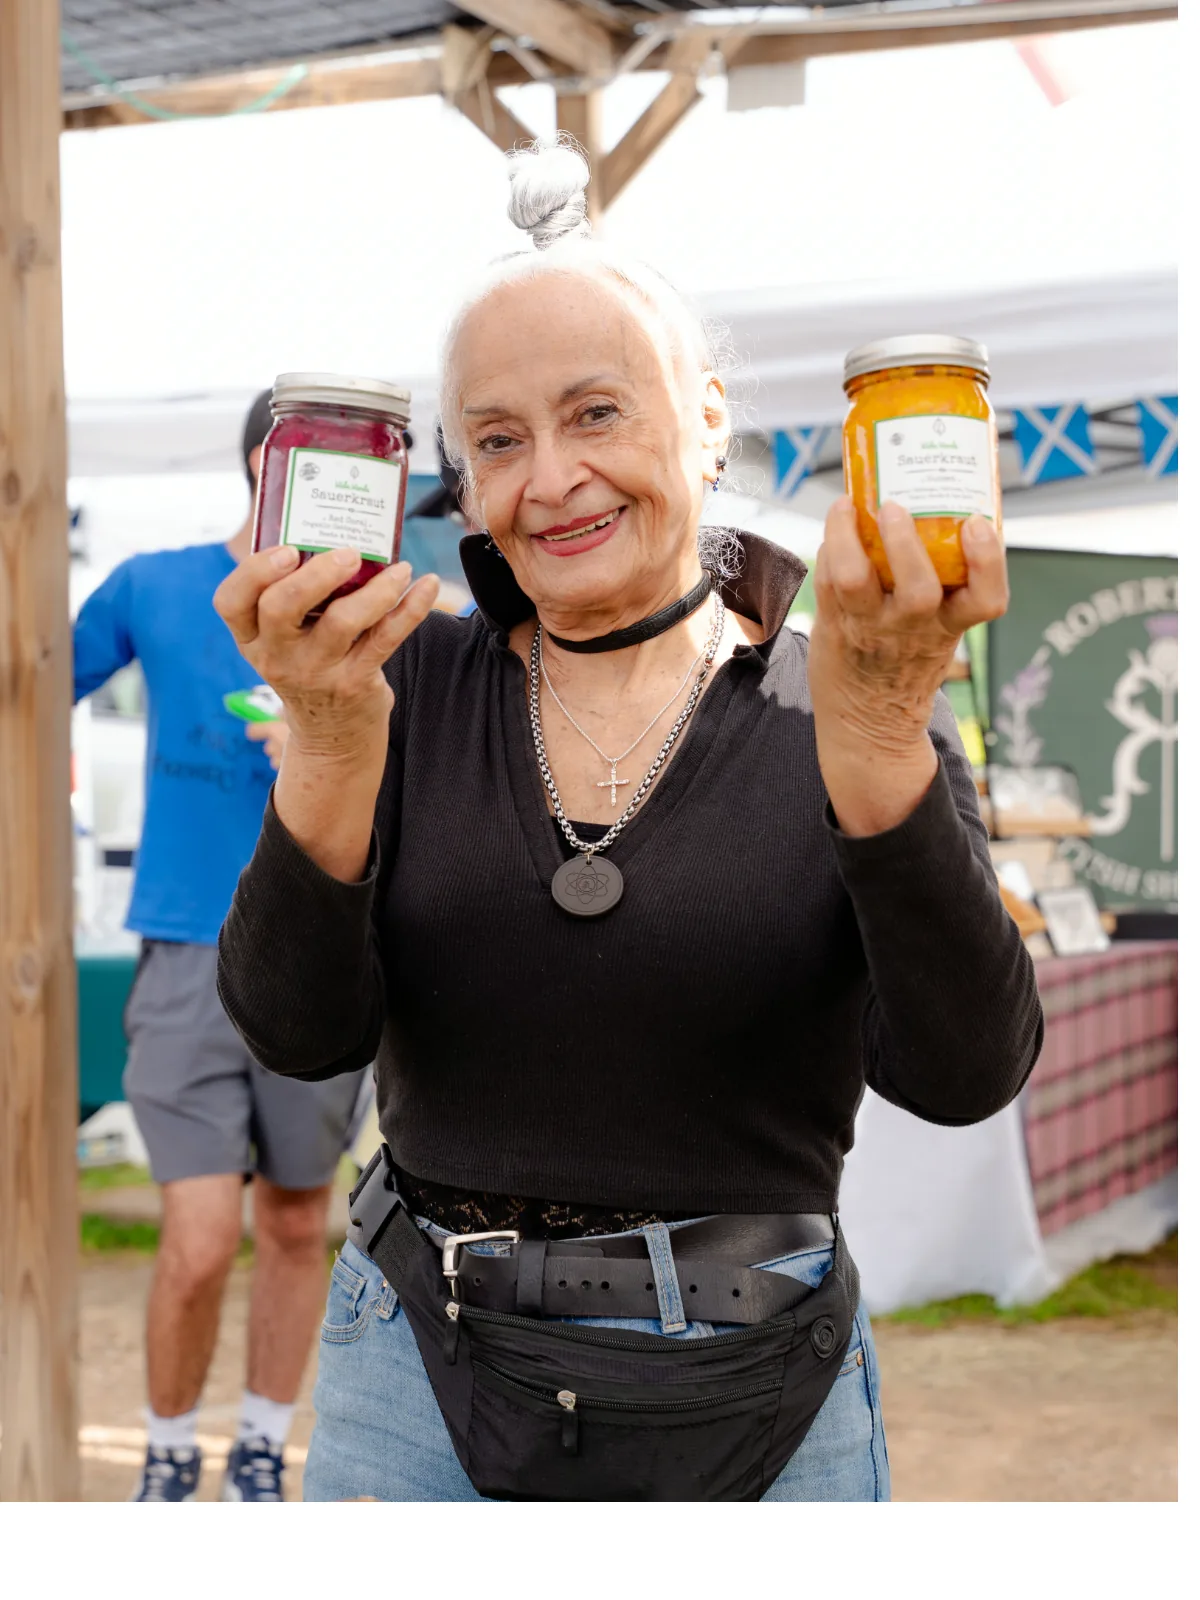
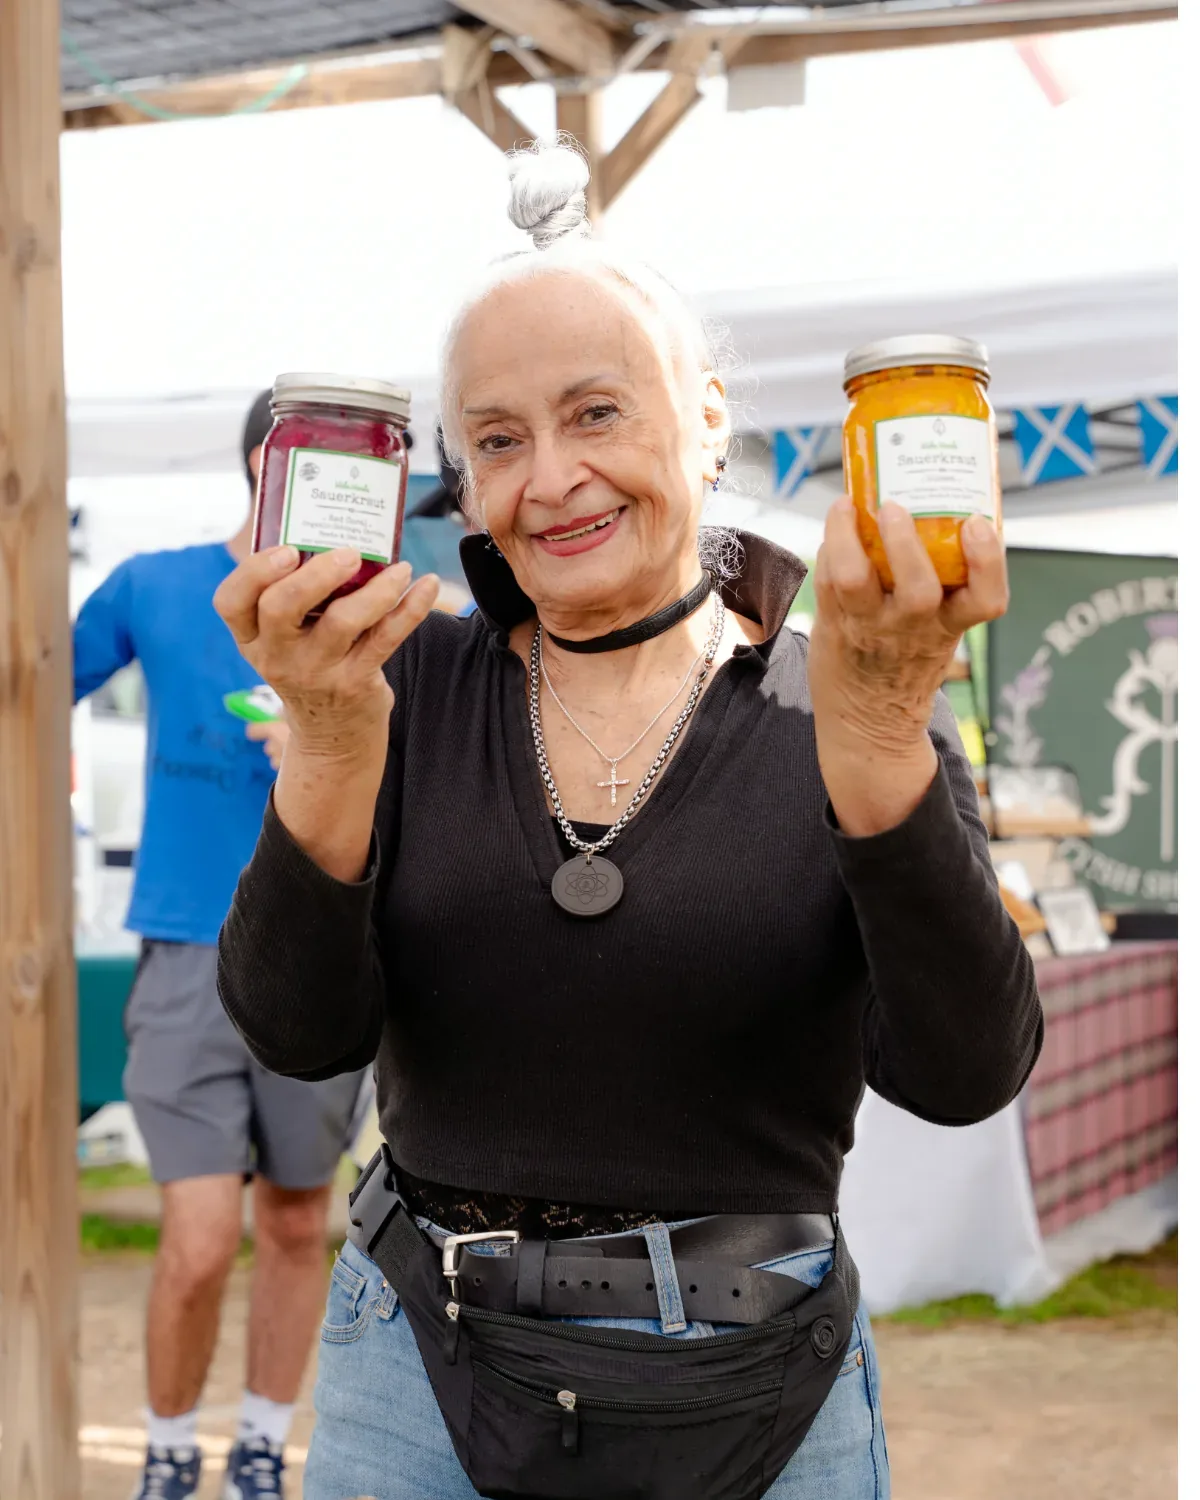
image fix

diff --git a/app/globals.css b/app/globals.css
@@ -2437,18 +2437,19 @@ select:focus {
   top: 0;
   right: calc(((100% - (11 * clamp(14px, 2.1vw, 24px))) / 12 * 4) + (4 * clamp(14px, 2.1vw, 24px)));
   width: min(22vw, 260px);
+  aspect-ratio: 3 / 2;
   overflow: hidden;
+  border: 2px solid var(--accent);
   border-radius: var(--radius-lg);
+  box-shadow: 0 18px 36px rgba(12, 41, 29, 0.22);
   pointer-events: none;
   z-index: 1;
 }
 
 .market__photo img {
   width: 100%;
-  height: auto;
-  border: 2px solid var(--accent);
-  border-radius: var(--radius-lg);
-  box-shadow: 0 18px 36px rgba(12, 41, 29, 0.22);
+  height: 100%;
+  object-fit: cover;
 }
 
 .market__subcopy {
@@ -3546,6 +3547,7 @@ select:focus {
 
 .voices__photo {
   width: 100%;
+  aspect-ratio: 3 / 4;
   overflow: hidden;
   padding: 10px;
   border-radius: 18px;
@@ -3559,7 +3561,9 @@ select:focus {
 
 .voices__photo img {
   width: 100%;
-  height: auto;
+  height: 100%;
+  object-fit: cover;
+  object-position: center top;
   border-radius: 12px;
 }
 

diff --git a/app/page.jsx b/app/page.jsx
@@ -466,8 +466,8 @@ export default async function Home() {
                       src="/Vida Verde-16.webp"
                       alt="Vida Verde customer smiling while holding two jars of sauerkraut"
                       width={1200}
-                      height={1600}
-                      sizes="(max-width: 900px) 100vw, 420px"
+                      height={1500}
+                      sizes="(max-width: 640px) 216px, (max-width: 900px) 276px, 246px"
                     />
                   </div>
                 </figure>
